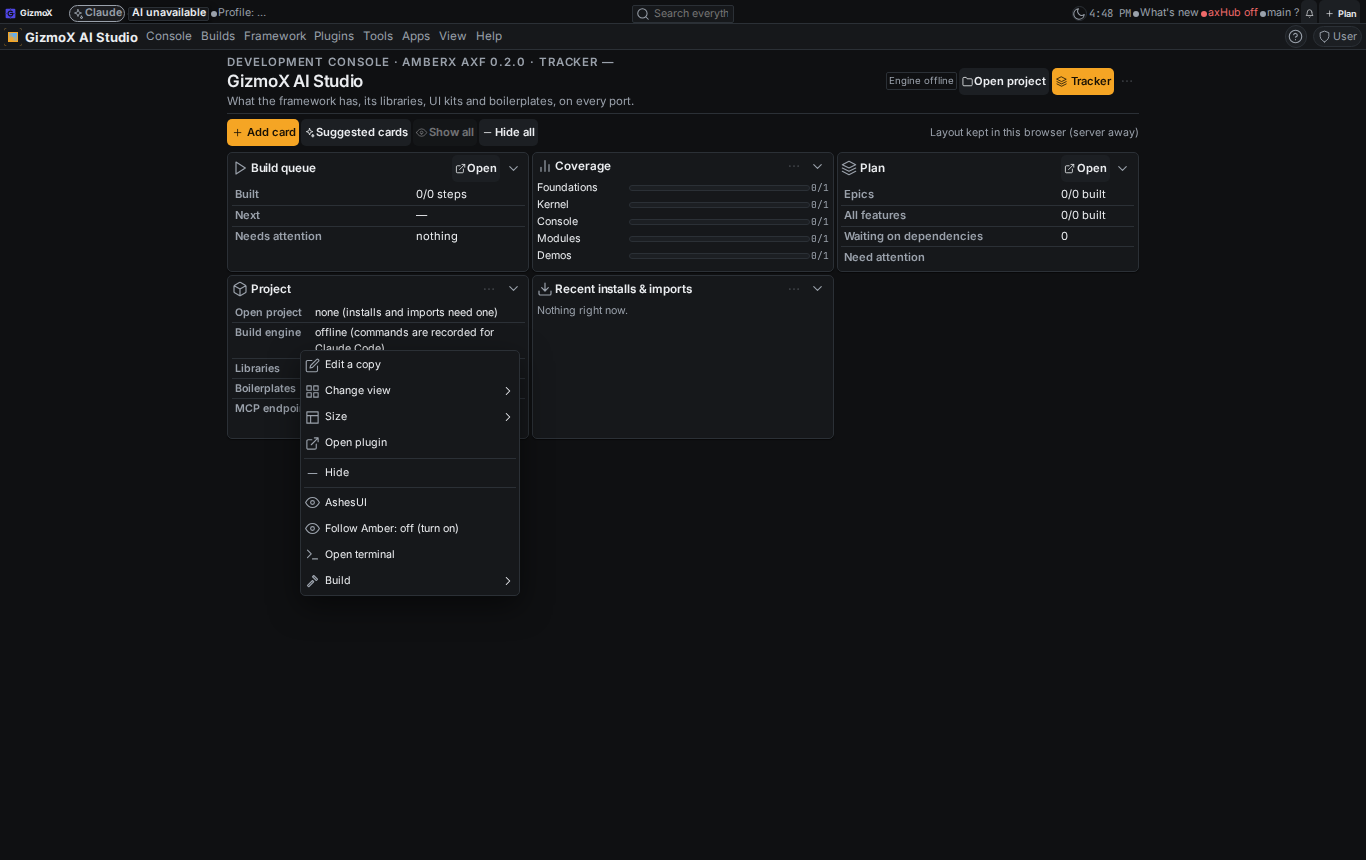
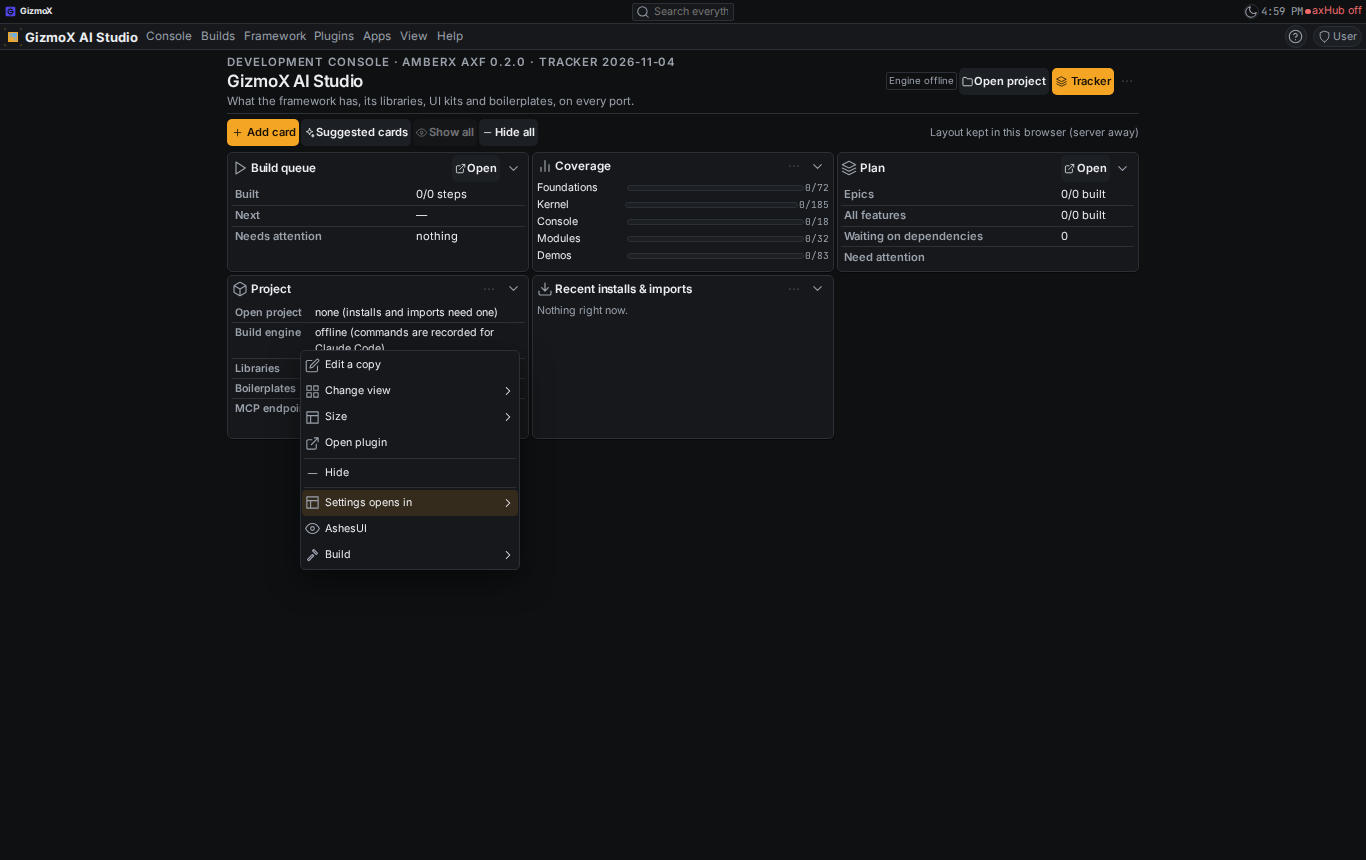
Settings placement everywhere: screenshots, report, THREADS (PR #329)

diff --git a/_claude/THREADS.md b/_claude/THREADS.md
@@ -33,7 +33,7 @@ for Brett's go), `blocked` (needs Brett), `failed`, `stopped` (cut off: out of c
 ## Active
 
 | Thread | State | Branch | PR | Queued / next | Updated |
-| Settings placement everywhere (Current `settings-placement-everywhere`, Fable, agent Greenlight Gina, headless worktree; Brett Nov 4 voice: "Set the settings interface for Molly to open in a dialog." "I should be able to select in every screen where its settings pops up." + addendum "Every settings interface should have a setting to declare where it pops up."): PR #289 landed into this branch (merged with main, conflicts resolved, re-baked, lifecycle stale refs fixed, pushed to its branch for CI + auto-merge); settings-placement@1 v2: dialog / side panel L|R / bottom sheet / inside / full page / floating window, scopes screen → plugin → plugin default → settings asset `opensIn` → app default (manifest `settingsPlacement`, Molly = dialog) → page, exit animations, every screen a `<SettingsHost>` (AppShell), Pops up in row on every settings interface, Settings → Settings placement (every screen), context menu Settings opens in, control@1 `console.placement` (MCP `console_placement`, REST, CLI), Expenses on its vendored core, rule + PORTING | working (s1–s5 code done; s6 checks, shots, report, PR next) | `claude/settings-placement-everywhere` | — | Report `_claude/builds/reports/settings-placement-everywhere.md` (writing). UI Review shots non-blocking | 2026-11-04 |
+| Settings placement everywhere (Current `settings-placement-everywhere`, Fable, agent Greenlight Gina, headless worktree; Brett Nov 4 voice: "Set the settings interface for Molly to open in a dialog." "I should be able to select in every screen where its settings pops up." + addendum "Every settings interface should have a setting to declare where it pops up."): PR #289 landed into this branch (merged with main, conflicts resolved, re-baked, lifecycle stale refs fixed, pushed to its branch for CI + auto-merge); settings-placement@1 v2: dialog / side panel L|R / bottom sheet / inside / full page / floating window, scopes screen → plugin → plugin default → settings asset `opensIn` → app default (manifest `settingsPlacement`, Molly = dialog) → page, exit animations, every screen a `<SettingsHost>` (AppShell), Pops up in row on every settings interface, Settings → Settings placement (every screen), context menu Settings opens in, control@1 `console.placement` (MCP `console_placement`, REST, CLI), Expenses on its vendored core, rule + PORTING | review (all 6 steps done; PR open, auto-merges on green CI; #289 closed as superseded) | `claude/settings-placement-everywhere` | [#329](https://github.com/MossesX/AmberX-AXF/pull/329) | Report `_claude/builds/reports/settings-placement-everywhere.md`. UI Review shots submitted (non-blocking). After merge: the console, Molly, AmberX web, axHub web and Expenses redeploy from main | 2026-11-04 |
 | Terminal stops stealing focus (Current `terminal-no-focus`, Opus, agent Janitor Joey; Brett Nov 4 voice: "I don't want the terminal to come to the front on every session."): new Terminal setting *When a new session starts* (Add tab quietly = default, background tab + count on the Terminal toolbar icon, never pops or switches; Do nothing; Bring Terminal to front), REST/MCP/CLI `new-session` | review (PR open, merges on green CI) | `claude/terminal-no-focus` | [#305](https://github.com/MossesX/AmberX-AXF/pull/305) | Report `_claude/builds/reports/terminal-no-focus.md`. Brett: none needed | 2026-11-04 |
 | Build manager hotfix (Current `hotfix-build-manager`, urgent, Opus; agent Ping Paulie; Brett Nov 4 voice: "It says 21 things are going." "When I click them, they don't open up, and the steps in the build menu don't work."): Builds page rows open on tap, step ticks no longer flipped back by stale polls, orchestrator steps open on tap, changes banner counts only live sessions, reconciler pauses builds no live process runs (store cleaned: 7 → complete, 9 → paused) | PR open, auto-merge when CI is green; then redeploy the console | `claude/hotfix-build-manager` | (see live log) | Report `_claude/builds/reports/hotfix-build-manager.md` | 2026-11-04 |
 | UI Review shows its pictures again (Urgent `ui-review-shots`, Opus, agent Snap Sully; Brett Nov 3 voice: "items but NO pictures"): files were all on disk and served 200; two console pollers (agent-slots, token-control pass) re-subscribed on every render and fired ~45 status calls/s, starving the picture fetches; on phones a today-made selector (`:where(:not([data-fx-narrow]))`, always true) squeezed the preview to zero width. Fixed both + layout-adopt codemod, shot timeout/retry, "Shot missing" + Re-capture, health@1 `ui-review-shots`, `review.mjs` worktree warning | review (all 5 steps done; PR open, UI Review waiting) | `claude/ui-review-shots` | [#277](https://github.com/MossesX/AmberX-AXF/pull/277) | Report `_claude/builds/reports/ui-review-shots.md`. Console redeploy (on merge) stops the storm. Brett: approve UI Review r-20261103-17ef4a40 | 2026-11-03 |
@@ -193,7 +193,7 @@ for Brett's go), `blocked` (needs Brett), `failed`, `stopped` (cut off: out of c
 - **Model:** Fable (contract) / Opus (Expenses, docs). Branch `claude/settings-placement-everywhere` = main + PR #289 merge (also pushed to `claude/plugin-settings-placement` so #289 goes green and auto-merges) + the v2 work.
 - **On the branch:** engine `framework/core/engines/settingsplacement.ts` + vocabulary `settingsplacement-rules.mjs` (+ `.d.mts`), settings-ui `opensIn` (`settingsui.ts`, asset-types.json), manifest `settingsPlacement` (types.ts; Molly's manifest = dialog), React `framework/react/settingsHost.tsx` (panels, sheets, closing, PopsUpInRow, scopes), AppShell screen host, `framework/libs/settings/index.tsx` (openPlaced for the whole interface, ScreenPlacementList, context menu, actions `settings.open-for` / `settings.place` / `settings.placement:<scope>`), CSS, control@1 `console.placement` (control-rules, console-commands.mjs + d.mts, console client, Python REST `/placement` + MCP `console_placement`, CLI verb `placement`), settings-placement plugin v2 + screens store, Expenses vendored core (`settings/placement.ts`, `SettingsDialog.tsx` surfaces, ModuleHost inline, ctx row), fixture generator `framework/spec/gen-settings-placement.mts`, check `check-settings-placement.mts`, help entries, rule in `_claude/rules/RULES.md`, PORTING.md.
 - **Checks:** `npx -y tsx framework/spec/check-settings-placement.mts`; `npx -y tsx framework/spec/check-control.mts`; `npx -y tsx framework/spec/check-console-commands.mts`; the console-commands plugin's `test.mjs` and its server `test_console_commands.py`; the settings-placement plugin's `test.py`; `apps/console-web/server/test_mcp_tools.py`; `node framework/cli/help-coverage.mjs --check`; console `npx tsc --noEmit -p apps/console-web` (after `node framework/cli/rebake.mjs apply apps/<app>` for console-web, molly, amberx-droid, axhub-web) and `npm run build` + `scripts/theme-swap.mjs` + `scripts/window-handles-check.mts`; `(cd apps/expenses && npx tsc --noEmit)`.
-- **Left:** s6: checks green, UI Review shots (non-blocking), report `_claude/builds/reports/settings-placement-everywhere.md`, PR, auto-land, redeploy console / Molly / AmberX web / axHub web / Expenses.
+- **Left:** nothing on the branch; PR #329 auto-merges on green CI, then the apps redeploy from main (console, Molly, AmberX web, axHub web, Expenses).
 - **Waiting on Brett:** nothing.
 - **First message for a new session:** "Carry on build settings-placement-everywhere on branch claude/settings-placement-everywhere: run the checks listed in THREADS.md, take UI Review shots, write the report, open the PR."
 

diff --git a/_claude/builds/reports/settings-placement-everywhere.md b/_claude/builds/reports/settings-placement-everywhere.md
@@ -7,7 +7,7 @@
 
 Addendum 1 (Brett, voice, Nov 4): "Every settings interface should have a setting to declare where it pops up."
 
-Branch `claude/settings-placement-everywhere` (= main + PR #289 merged + this build).
+Branch `claude/settings-placement-everywhere` (= main + PR #289 merged + this build). PR #329 (supersedes #289, closed).
 
 ## PR #289 (plugin-settings-placement) landed into this branch
 
@@ -65,8 +65,22 @@ Settings always stay on the full settings page too; a placement only picks where
 
 ## Screenshots
 
-`_claude/builds/reports/settings-placement-everywhere/shots/` (see the table below once captured; UI Review group
-`settings-placement-everywhere - Nov 4`). Non-blocking.
+`_claude/builds/reports/settings-placement-everywhere/shots/` (desktop 1366×860, phone 412×915; the built console served
+locally with the appearance source off, picks made through the right-click menu). UI Review group
+`settings-placement-everywhere - Nov 4` (non-blocking). PR #329.
+
+| Shot | What |
+|---|---|
+| ![](settings-placement-everywhere/shots/settings-page-pops-up-in-desktop.png) | The settings page: the **Pops up in** row at the top (This screen (Home) / Whole app, Look…) |
+| ![](settings-placement-everywhere/shots/settings-placement-list-desktop.png) | Settings → Settings placement: the app default, every screen (55) with its pick, Look, Try it |
+| ![](settings-placement-everywhere/shots/context-menu-settings-opens-in-desktop.png) | Right-click on a screen → **Settings opens in** (the submenu lists the seven choices, the app default, Look and animation…) |
+| ![](settings-placement-everywhere/shots/home-settings-dialog-desktop.png) | Home → Pop-up dialog: the whole settings interface in a dialog |
+| ![](settings-placement-everywhere/shots/home-settings-panel-left-desktop.png) | Home → Side panel, left |
+| ![](settings-placement-everywhere/shots/home-settings-inside-desktop.png) | Home → Inside the screen: an inline section at the top of Home |
+| ![](settings-placement-everywhere/shots/home-settings-window-desktop.png) | Home → Floating window |
+| ![](settings-placement-everywhere/shots/settings-page-pops-up-in-phone.png) | The settings page on a phone, with the row |
+| ![](settings-placement-everywhere/shots/home-settings-sheet-phone.png) | Home → Bottom sheet on a phone |
+| ![](settings-placement-everywhere/shots/home-settings-dialog-phone.png) | Home → Pop-up dialog on a phone |
 
 ## Gaps / notes
 
